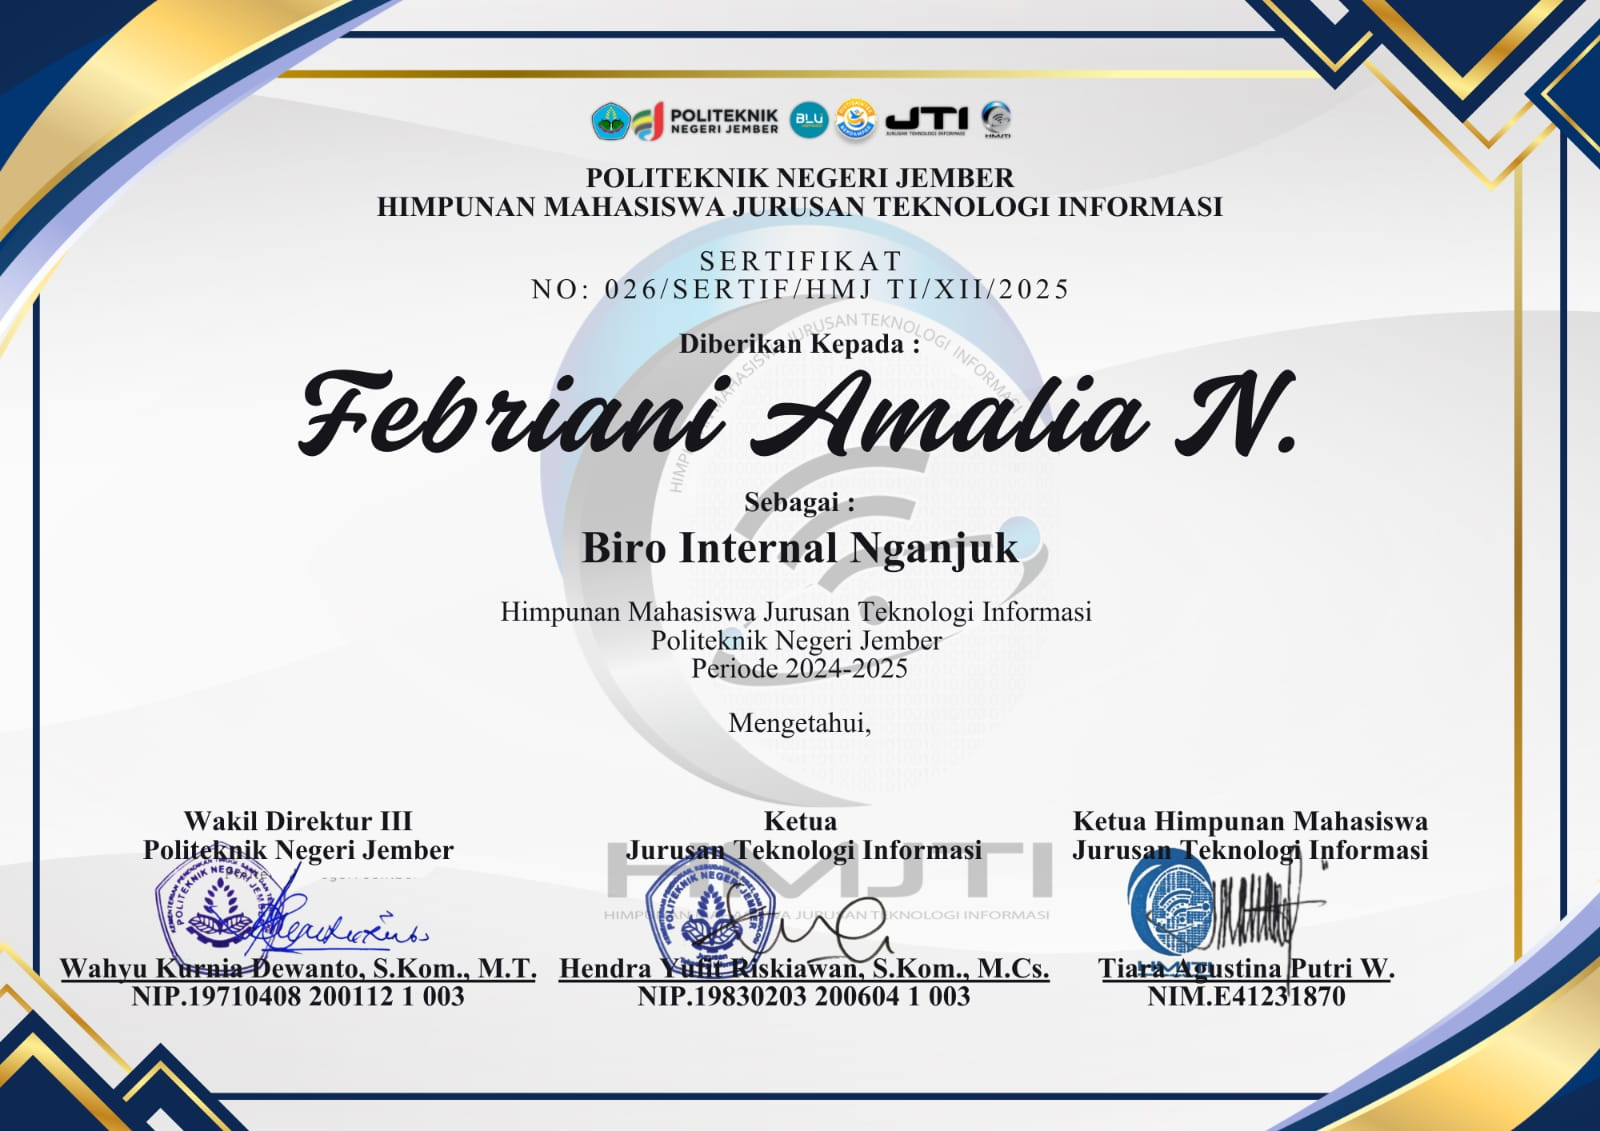
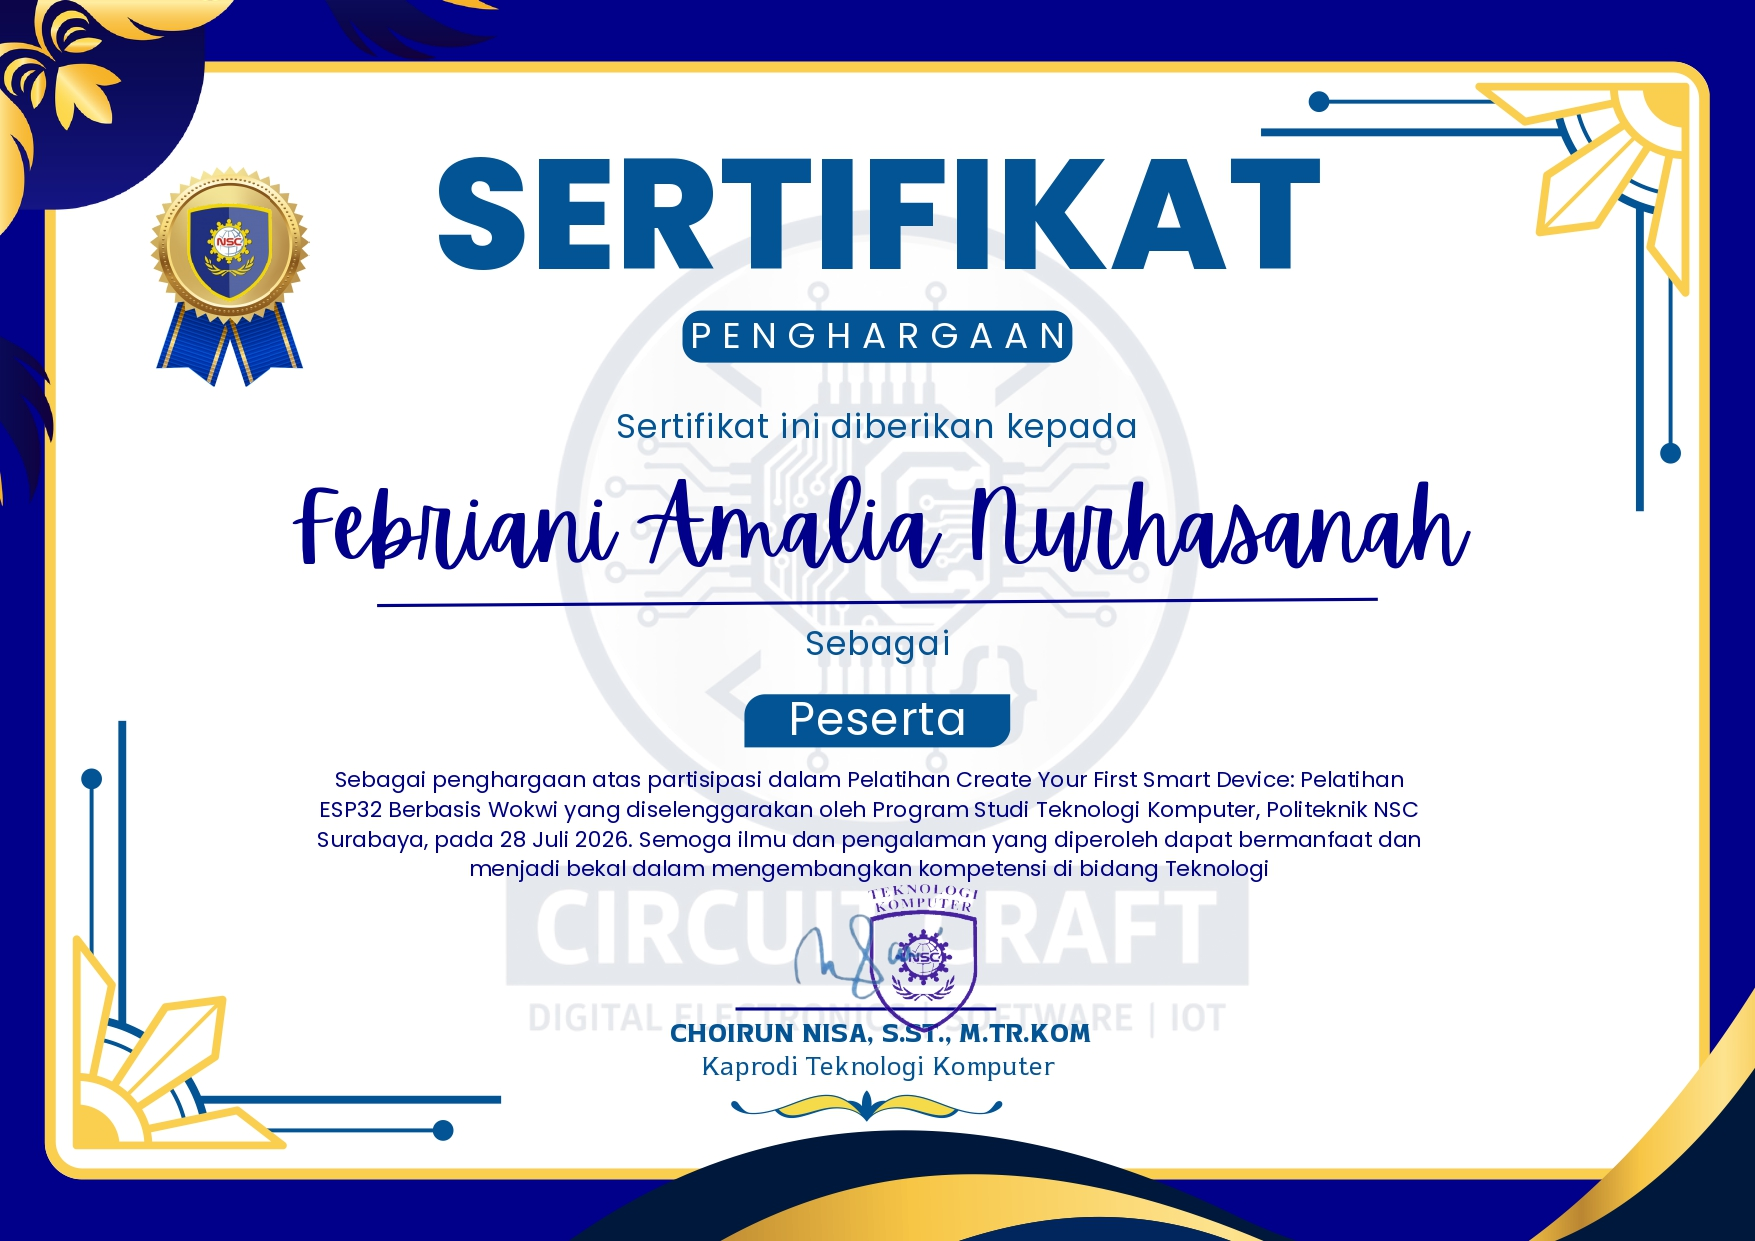
update sertifikat dan pp

diff --git a/index.html b/index.html
@@ -285,7 +285,15 @@
           <p>Peserta Kegiatan Grand Launching NganjukDev</p>
         </div>
         <div class="certificate-card">
-          <img src="sertifikat13.jpg" alt="Sertifikat HMJ TI 2024-2025" onclick="openModal(this)">
+          <img src="sertifikat13.jpg" alt="Pelatihan ESP32 Berbasis Wokwi" onclick="openModal(this)">
+          <p>Pelatihan ESP32 Berbasis Wokwi</p>
+        </div>
+        <div class="certificate-card">
+          <img src="sertifikat14.jpg" alt="Belajar Arduino & Wokwi dari Nol Sampai Bisa" onclick="openModal(this)">
+          <p>Belajar Arduino & Wokwi dari Nol Sampai Bisa</p>
+        </div>
+        <div class="certificate-card">
+          <img src="sertifikat15.jpg" alt="Sertifikat HMJ TI 2024-2025" onclick="openModal(this)">
           <p>Sertifikat HMJ TI 2024-2025</p>
         </div>
       </div>
